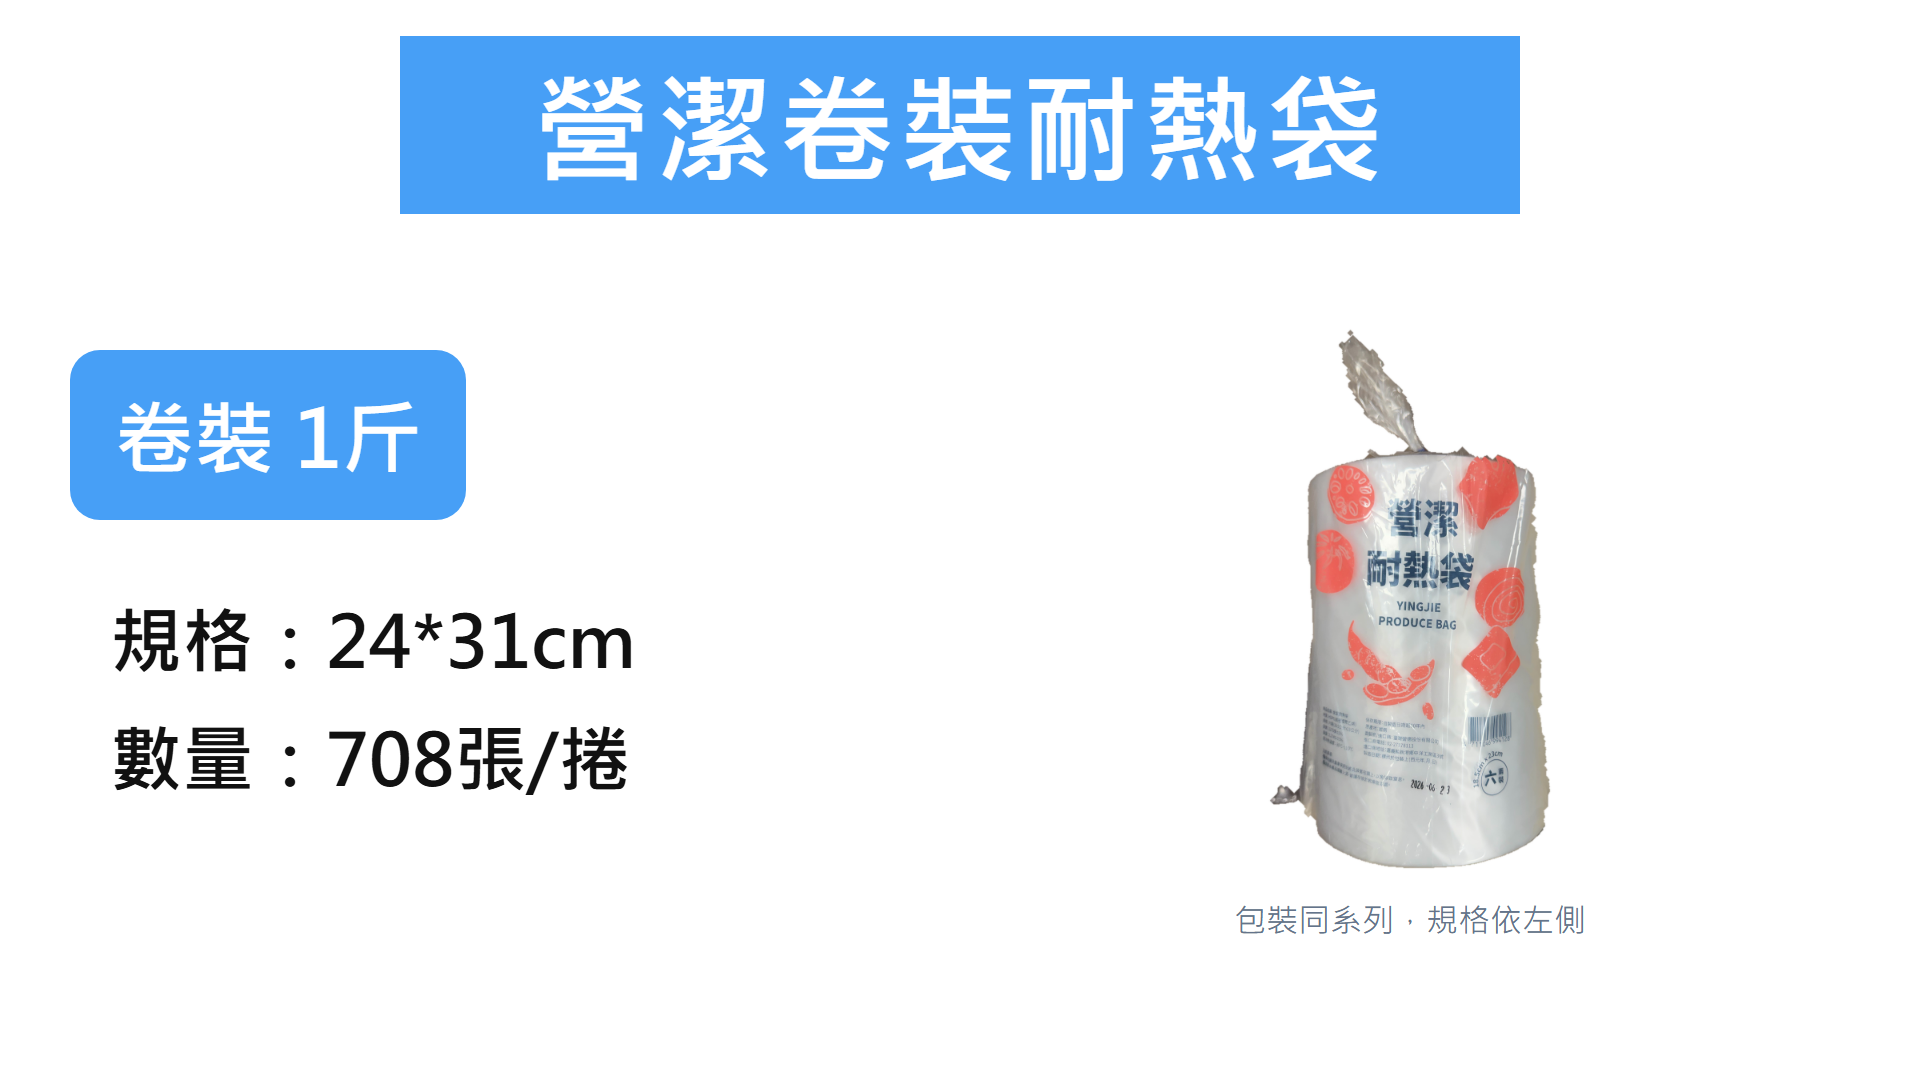
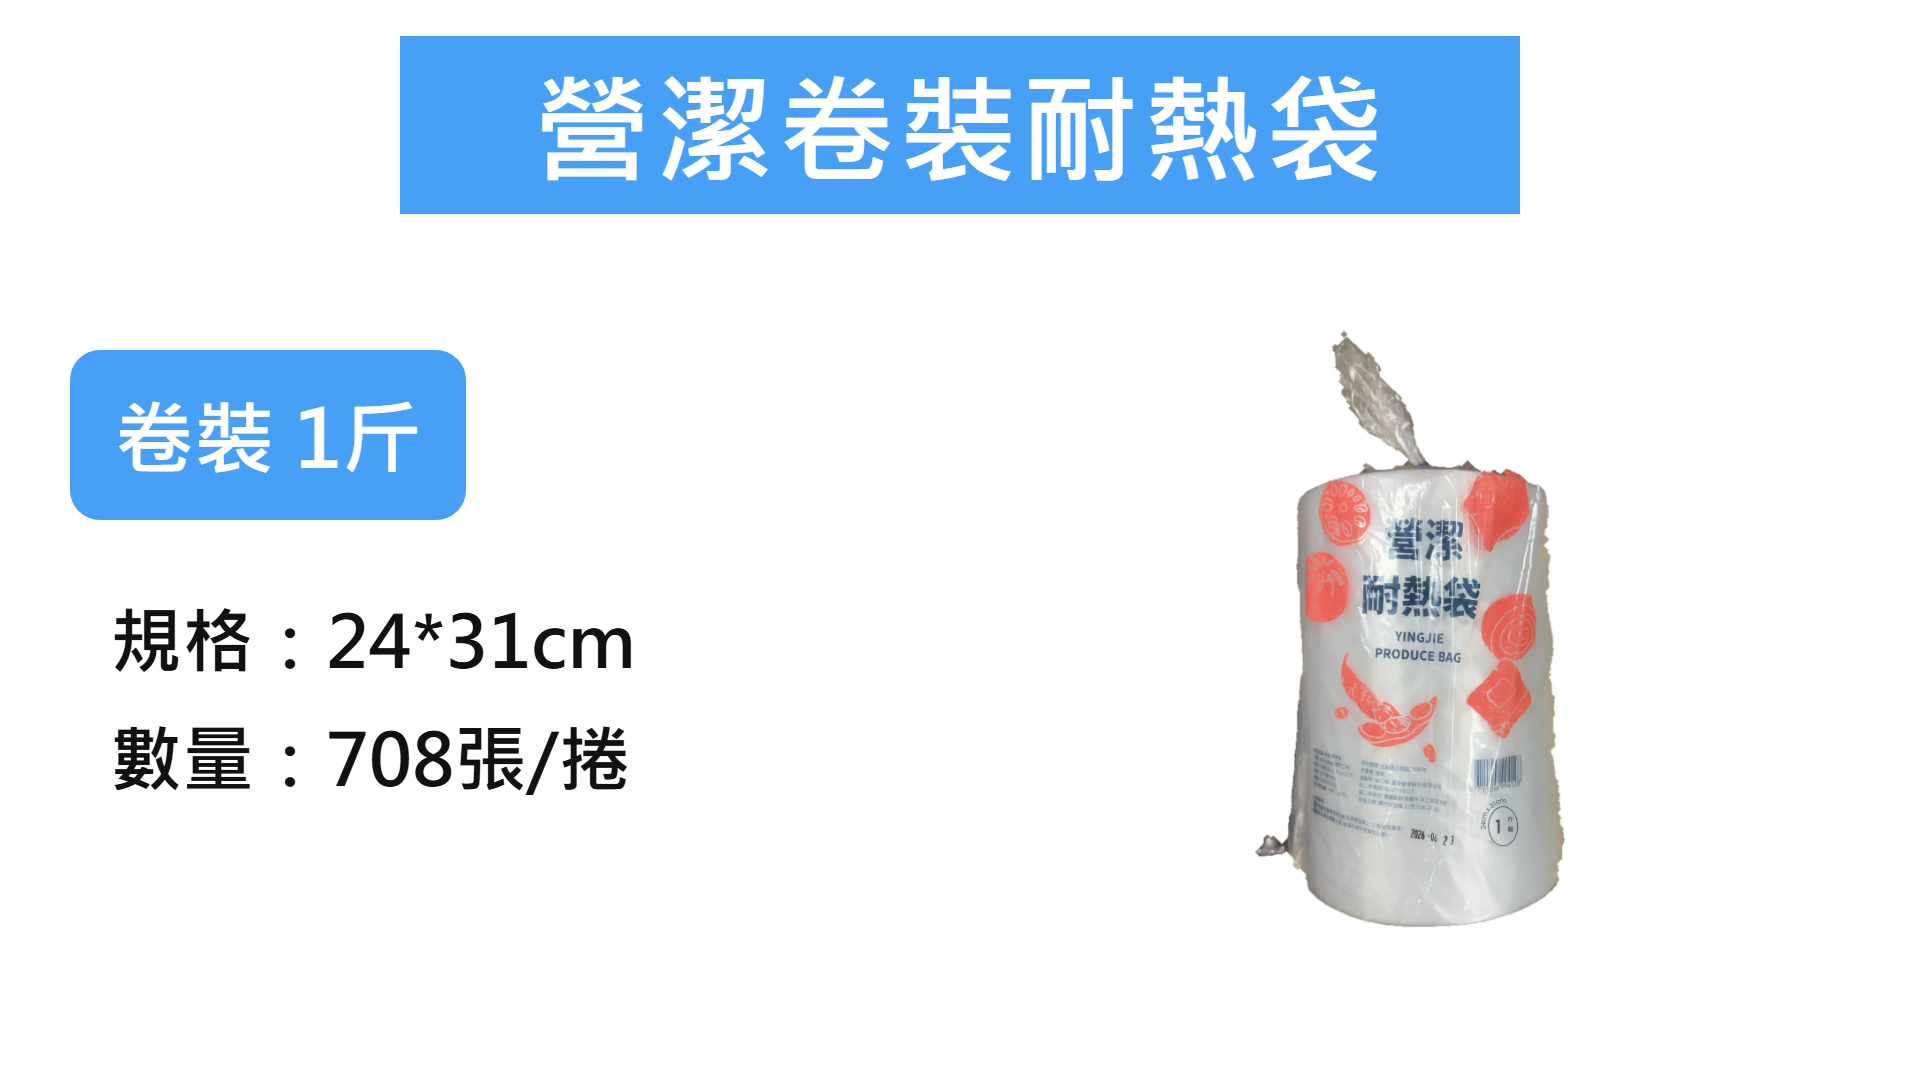
卷裝耐熱袋各尺寸照片標籤改正；LINE 出貨單品名 48×65 改為 15斤
- 營潔卷裝耐熱袋：四兩、半斤、1斤、2斤、3斤、5斤 的照片，把包裝上的尺寸標籤
  （圈內斤兩字與外圈尺寸）依各自規格重畫，拿掉「包裝同系列」註記
- 對照表 YA-EH-P150 的出貨單品名改為「營潔耐熱袋 15斤，48×65 cm，22張/包」（業主確認）

Changed region(s): [[0.6562, 0.3056, 0.8438, 0.8861]]

diff --git a/src/data/erpProductMapping.ts b/src/data/erpProductMapping.ts
@@ -122,7 +122,7 @@ export const erpProductMappings: ErpProductMapping[] = [
   m('YA-EH-P30', '營潔耐熱袋 3斤，32×43 cm，79張/包', `${YP}3斤裝_32x43cm`, null, '營潔平板式耐熱袋｜3斤裝 32x43cm', 'erp_only_added'),
   m('YA-EH-P50', '營潔耐熱袋 5斤，35×50 cm，52張/包', `${YP}5斤裝_35x50cm`, null, '營潔平板式耐熱袋｜5斤裝 35x50cm', 'erp_only_added'),
   m('YA-EH-P100', '營潔耐熱袋 10斤，45×62 cm，26張/包', `${YP}10斤裝_45x62cm`, null, '營潔平板式耐熱袋｜10斤裝 45x62cm', 'erp_only_added'),
-  m('YA-EH-P150', '營潔耐熱袋 5斤，48×65 cm，22張/包', `${YP}15斤裝_48x65cm`, null, '營潔平板式耐熱袋｜15斤裝 48x65cm', 'erp_only_added', '成本單寫 5斤，包裝實際印 15斤；業主確認官網寫 15斤'),
+  m('YA-EH-P150', '營潔耐熱袋 15斤，48×65 cm，22張/包', `${YP}15斤裝_48x65cm`, null, '營潔平板式耐熱袋｜15斤裝 48x65cm', 'erp_only_added', '成本單原寫 5斤，包裝實際印 15斤；業主確認為 15斤（LINE 出貨單品名也寫 15斤）'),
   m('YA-EH-R02', '營潔卷裝耐熱袋 四兩，15.5×19.5 cm，1822張/捲', `${YR}四兩_15.5x19.5cm`, null, '營潔卷裝耐熱袋｜四兩 15.5x19.5cm', 'erp_only_added'),
   m('YA-EH-R03', '營潔卷裝耐熱袋 六兩，18.5×23 cm，1275張/捲', `${YR}六兩_18.5x23cm`, null, '營潔卷裝耐熱袋｜六兩 18.5x23cm', 'erp_only_added'),
   m('YA-EH-R05', '營潔卷裝耐熱袋 半斤，22×27 cm，897張/捲', `${YR}半斤_22x27cm`, null, '營潔卷裝耐熱袋｜半斤 22x27cm', 'erp_only_added'),

diff --git a/src/data/addedProducts.ts b/src/data/addedProducts.ts
@@ -3,7 +3,7 @@ import type { Product, ProductSpec } from './store';
 /**
  * 2026-11 對照 ERP 成本單後補上的商品。
  * 規格只寫成本單或實拍圖上看得到的資料，不知道的欄位一律省略（畫面上不顯示）。
- * 「規格圖」右側用真實商品照片（白底、已去掉來源網站的標記）。營潔卷裝耐熱袋 7 種共用六兩那捲的實拍照，規格文字各自依成本單。
+ * 「規格圖」右側用真實商品照片（白底、已去掉來源網站的標記）。營潔卷裝耐熱袋用六兩那捲的實拍照，其他尺寸把包裝上的尺寸標籤依各自規格重畫。
  * 每個規格對應的 ERP 品號見 erpProductMapping.ts。
  */
 

diff --git a/public/assets/IMAGE_SOURCES.md b/public/assets/IMAGE_SOURCES.md
@@ -20,7 +20,7 @@
 
 | 商品 | 圖片 | 說明 |
 |---|---|---|
-| 營潔卷裝耐熱袋 7 種尺寸 | `02_食品保鮮耐熱袋/03_營潔卷裝耐熱袋/<尺寸>/規格圖__*.png` | 業主倉庫實拍（2026-11）。7 種共用「六兩」那捲的照片（去背後放入版型），非六兩的卡在照片下註明「包裝同系列，規格依左側」；左側斤數／兩數、尺寸、張數各自依成本單 |
+| 營潔卷裝耐熱袋 7 種尺寸 | `02_食品保鮮耐熱袋/03_營潔卷裝耐熱袋/<尺寸>/規格圖__*.png` | 業主倉庫實拍（2026-11）的「六兩」那捲，去背後放入版型。其他 6 種用同一張照片，把包裝上的尺寸標籤（圈內斤兩字與外圈尺寸）依各自規格重畫；左側斤數／兩數、尺寸、張數依成本單 |
 
 ## 備註
 - 商品照的著作權屬於原拍攝者或台塑；本站為台塑產品經銷用途使用。若之後拿到台塑提供的正式圖檔或自行拍攝的照片，建議替換。
